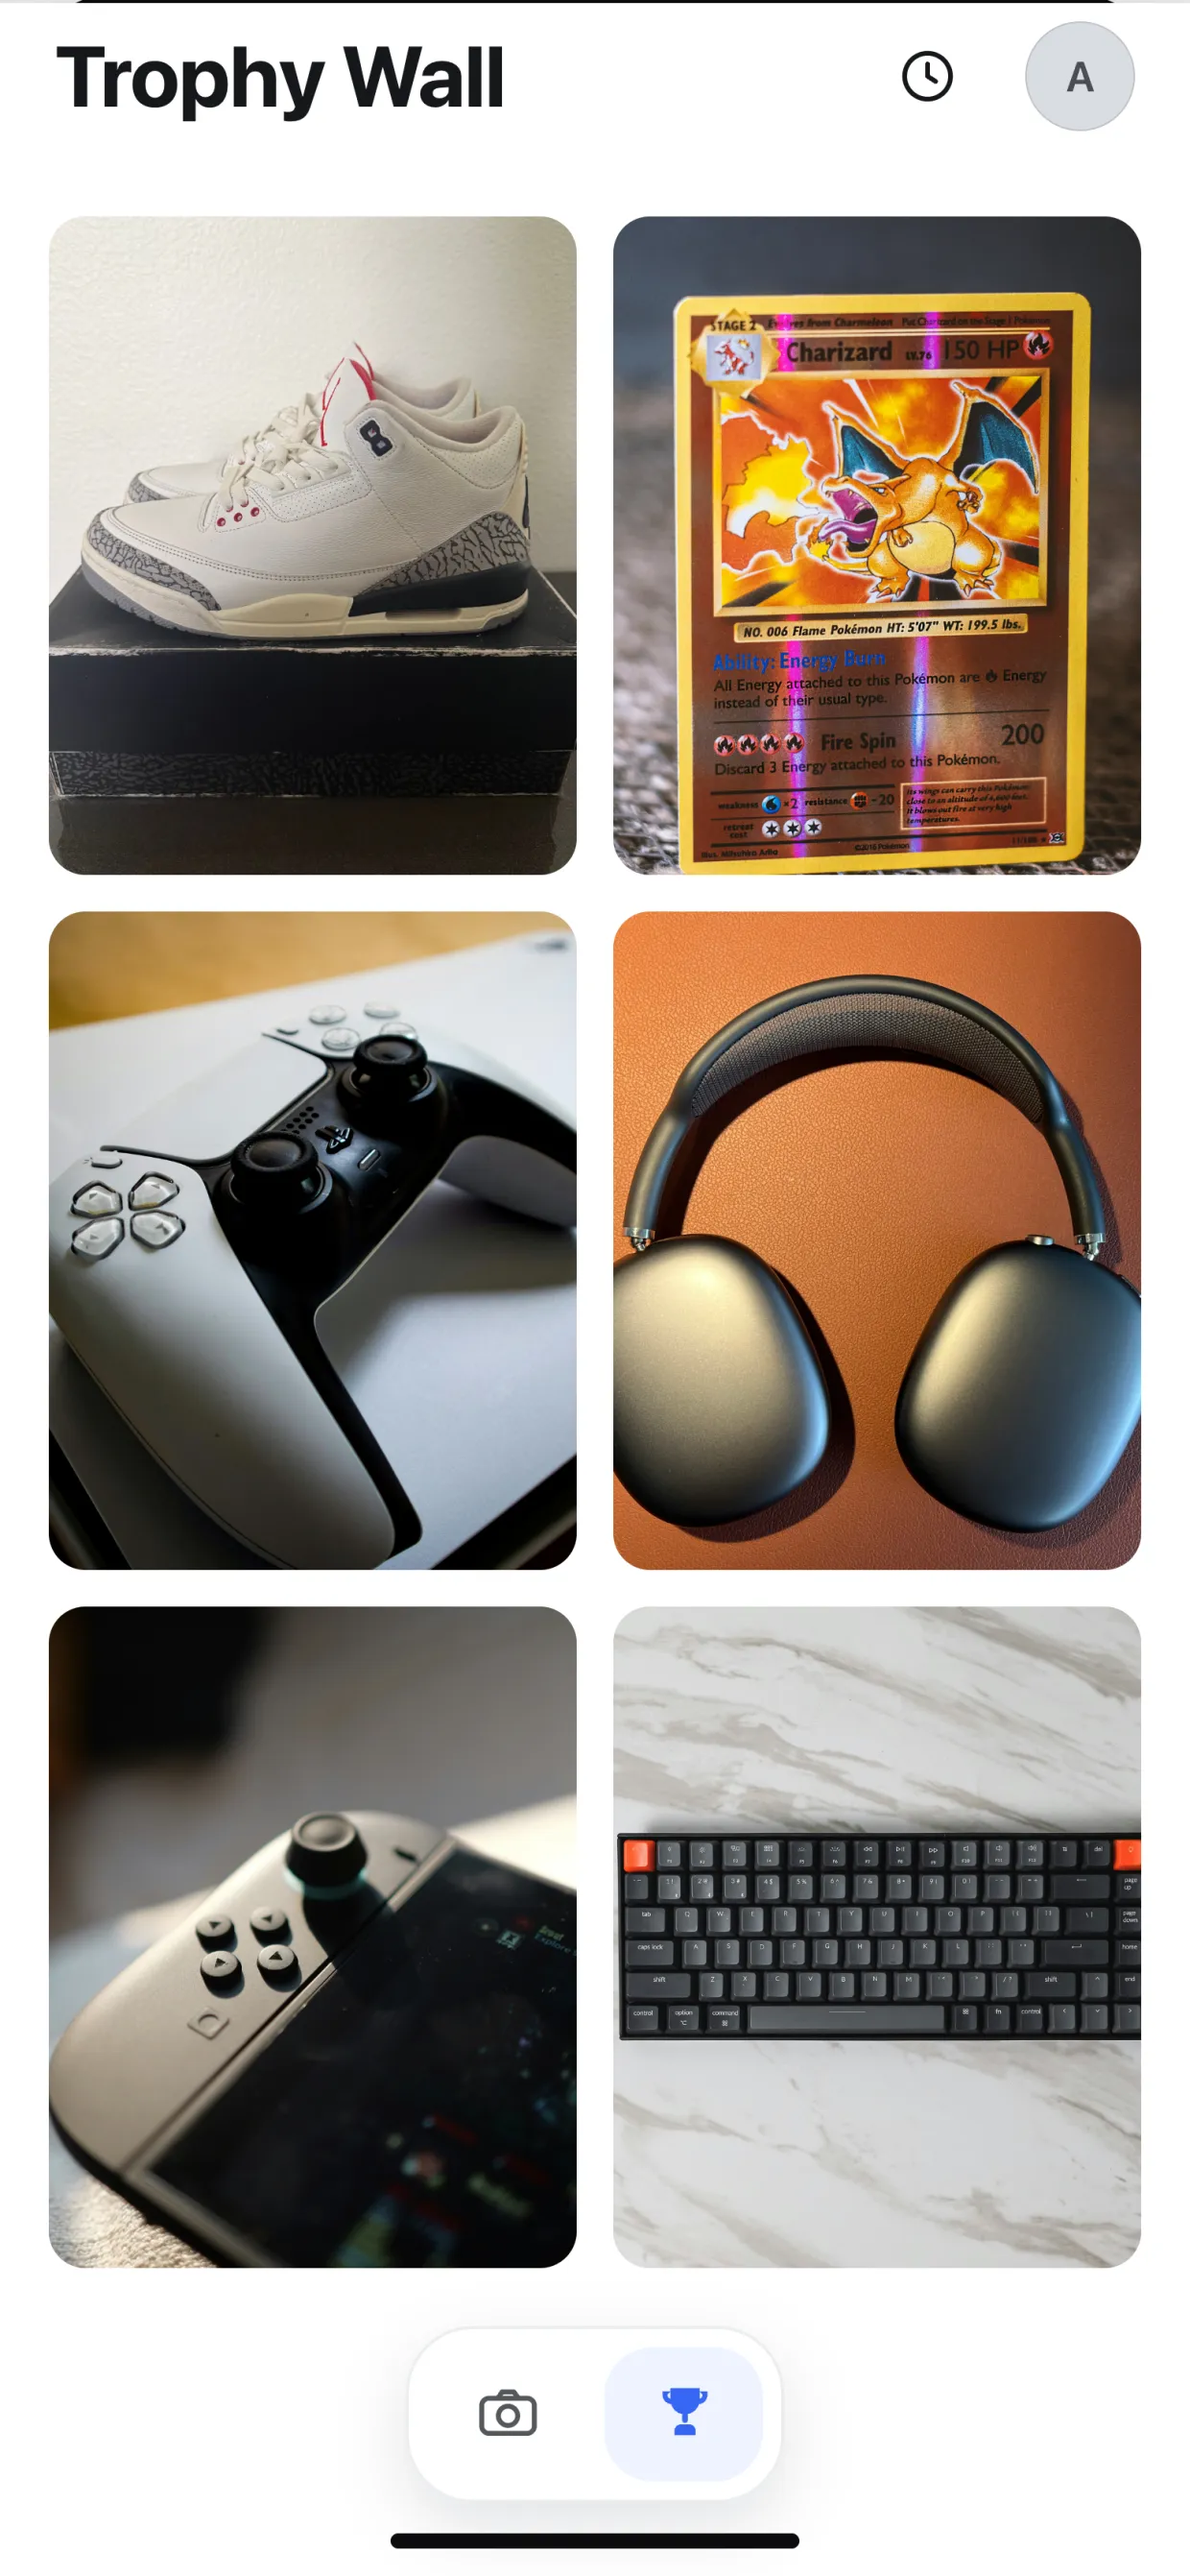
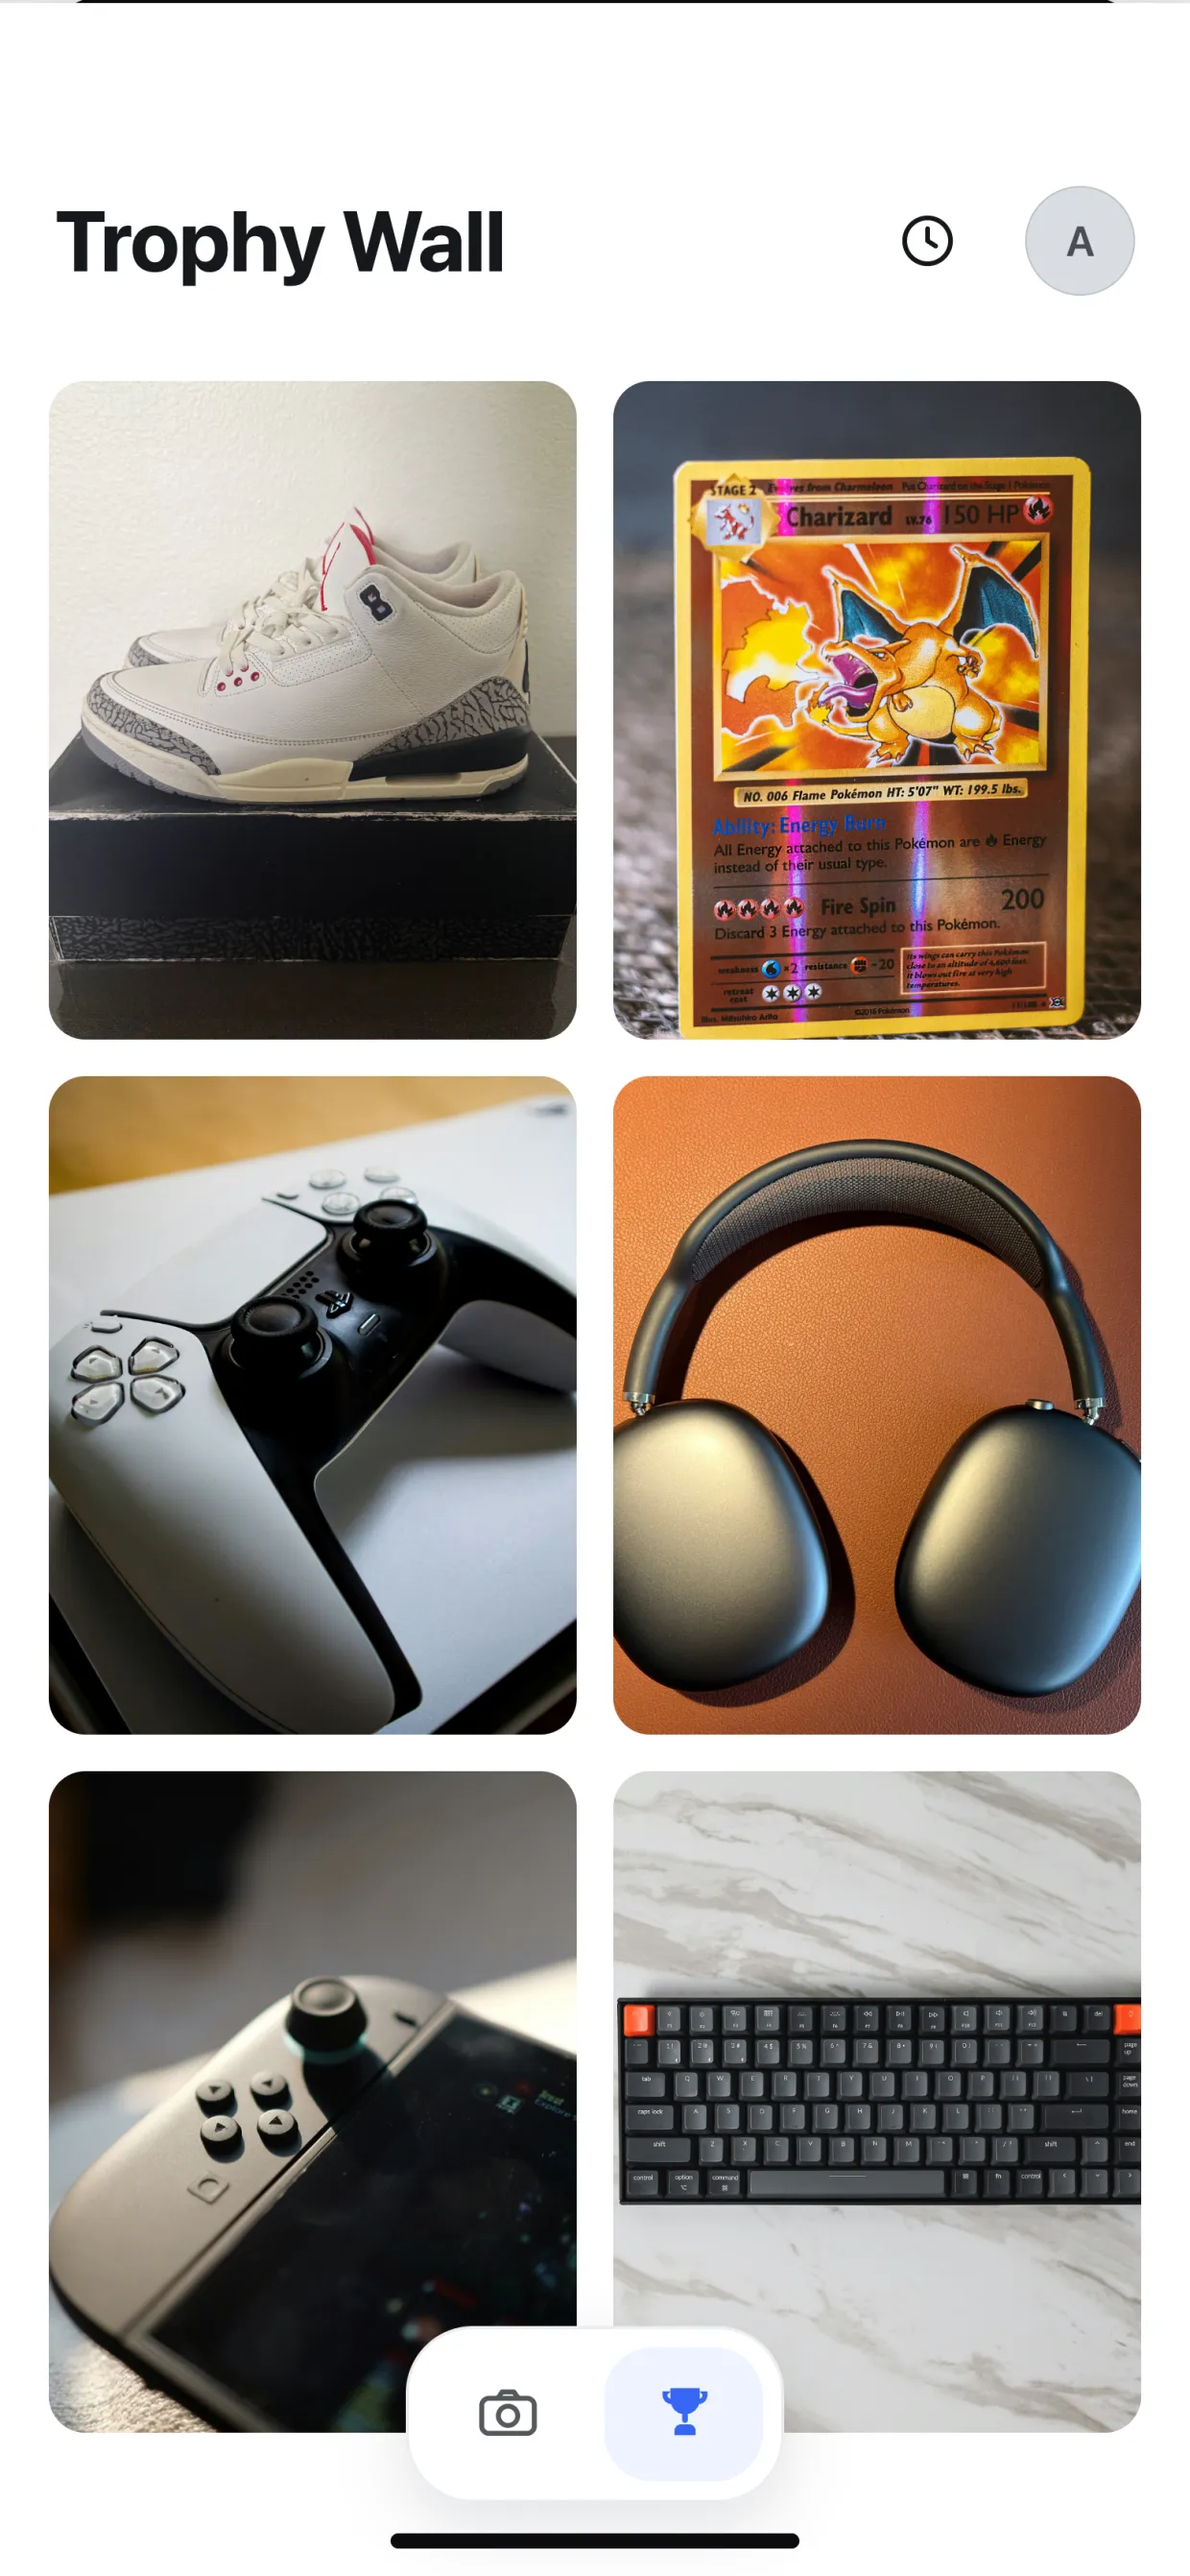
fix(marketing): give the phone screens back their top safe-area band
The capture script hid the OS status bar with display:none. Three of the
five canvases build that row as a static element in normal flow, so the
declaration deleted its 54px of layout along with its glyphs and every
header below it slid up flush against the top edge of the glass. Photo
Review, Listing Review and the Trophy Wall title with its avatar all sat
on the bezel with nothing above them.

Hiding the row with visibility instead keeps the box and suppresses only
the paint, which returns each screen to the safe-area geometry it was
laid out against rather than inventing a new inset. The notch and island
removal Aziz asked for after the Cal AI comparison is unchanged.

On scanfix and aefix the row is absolutely positioned, so the change is a
no-op there. Re-encoding all five proves the isolation: scan.webp and
publish.webp come out byte-identical and the other three change.

Trophy Wall's last surviving tile row now ends at 797 of 844 rather than
743 and still clears the floating dock.

diff --git a/docs/design/marketing-screens-provenance.md b/docs/design/marketing-screens-provenance.md
@@ -33,14 +33,25 @@ screen, and the frames in `marketing.css` are built to that number so `object-fi
 nothing to trim.
 
 All five have the OS status bar and, where the canvas draws one, the Dynamic Island removed before
-capture, so app content starts at the very top edge of the glass. Aziz asked for this after putting
-the page next to Cal AI, whose device render carries neither: "use that extra space instead of the
-dynamic notch for room." Scan gained the most, because its status bar was white text sitting on a
-white wall and its island was a black pill over the viewfinder; both are simply gone now rather than
-faint. The removal is structural rather than another `data-dc-tpl` list, because only `scanfix` is
-plain markup and the other four build their phones from templates where the row has no stable
-attribute until the board renders. It runs against the already-resolved live screen and throws if it
-cannot find a status bar, so a silent miss cannot ship a screen that disagrees with the other four.
+capture. Aziz asked for this after putting the page next to Cal AI, whose device render carries
+neither: "use that extra space instead of the dynamic notch for room." Scan gained the most, because
+its status bar was white text sitting on a white wall and its island was a black pill over the
+viewfinder; both are simply gone now rather than faint. The removal is structural rather than another
+`data-dc-tpl` list, because only `scanfix` is plain markup and the other four build their phones from
+templates where the row has no stable attribute until the board renders. It runs against the
+already-resolved live screen and throws if it cannot find a status bar, so a silent miss cannot ship
+a screen that disagrees with the other four.
+
+The row is hidden with `visibility`, not `display`, and that word is the whole of a second
+correction. Three of the five canvases build the row as a static element in normal flow, so
+`display: none` deleted its 54px of layout along with its glyphs and every header below it slid up
+flush against the glass. Aziz, looking at all five at once: "it's way too close to the top edge where
+the headline and stuff is in the trophy wall headline and then the profile ... moving it down a bit
+so there's breathing room." Keeping the box and suppressing only the paint returns each screen to the
+safe-area geometry it was actually laid out against, rather than inventing a new inset. On `scanfix`
+and `aefix`, whose rows are absolutely positioned, it is a no-op, which is correct: they never spent
+the space to begin with, and re-encoding proved it, with those two coming out byte-identical while
+the other three changed.
 
 Three of the five need the page put into a particular state first, and the script asserts each one
 rather than trusting it. Publish clicks its first row. Trophy Wall substitutes a settled-wall state
@@ -62,9 +73,8 @@ Scrolling could not fix it, since four rows of 228 against a 732 viewport always
 Growing the phone could not either, because the capture is a fixed screen that scales
 proportionally and takes the sliver with it. So `TRIM_ROW` removes the last row at capture time and
 asserts its way there: eight tiles, four distinct row tops, exactly two hidden, and the remaining
-grid must end above the screen edge or it throws. With the status bar already stripped the content
-sits ~54px higher, so the last surviving row ends at 743 of 844 and leaves clearance under it for
-the dock. Three complete rows ship. The horizontal gutters were never the problem and measure
+grid must end above the screen edge or it throws. The last surviving row ends at 797 of 844 and
+leaves clearance under it for the dock. Three complete rows ship. The horizontal gutters were never the problem and measure
 symmetric at 16px in the canvas and 13 to 14px in the rendered frame.
 
 **The App Store panel set is not touched.** `captures/appstore-sb/` stays exactly as approved. This
